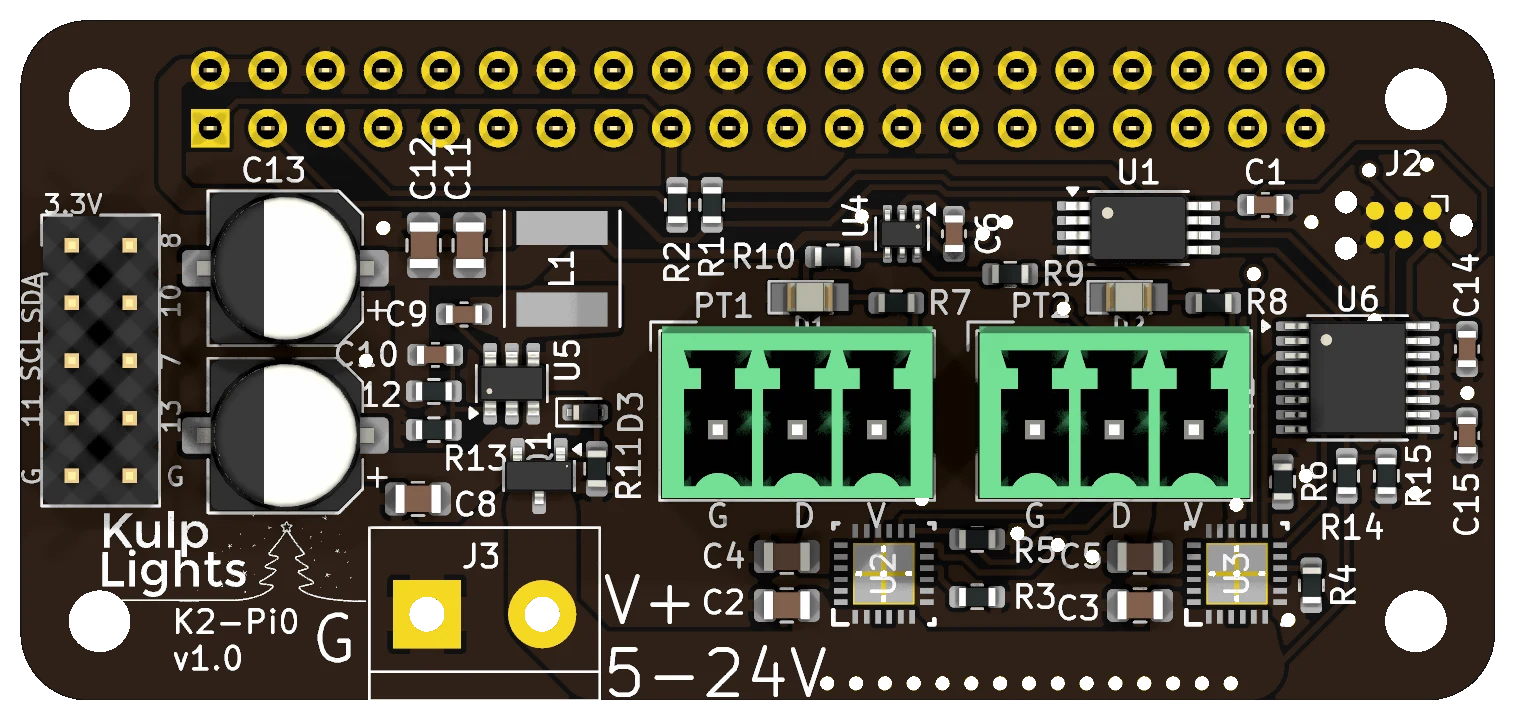
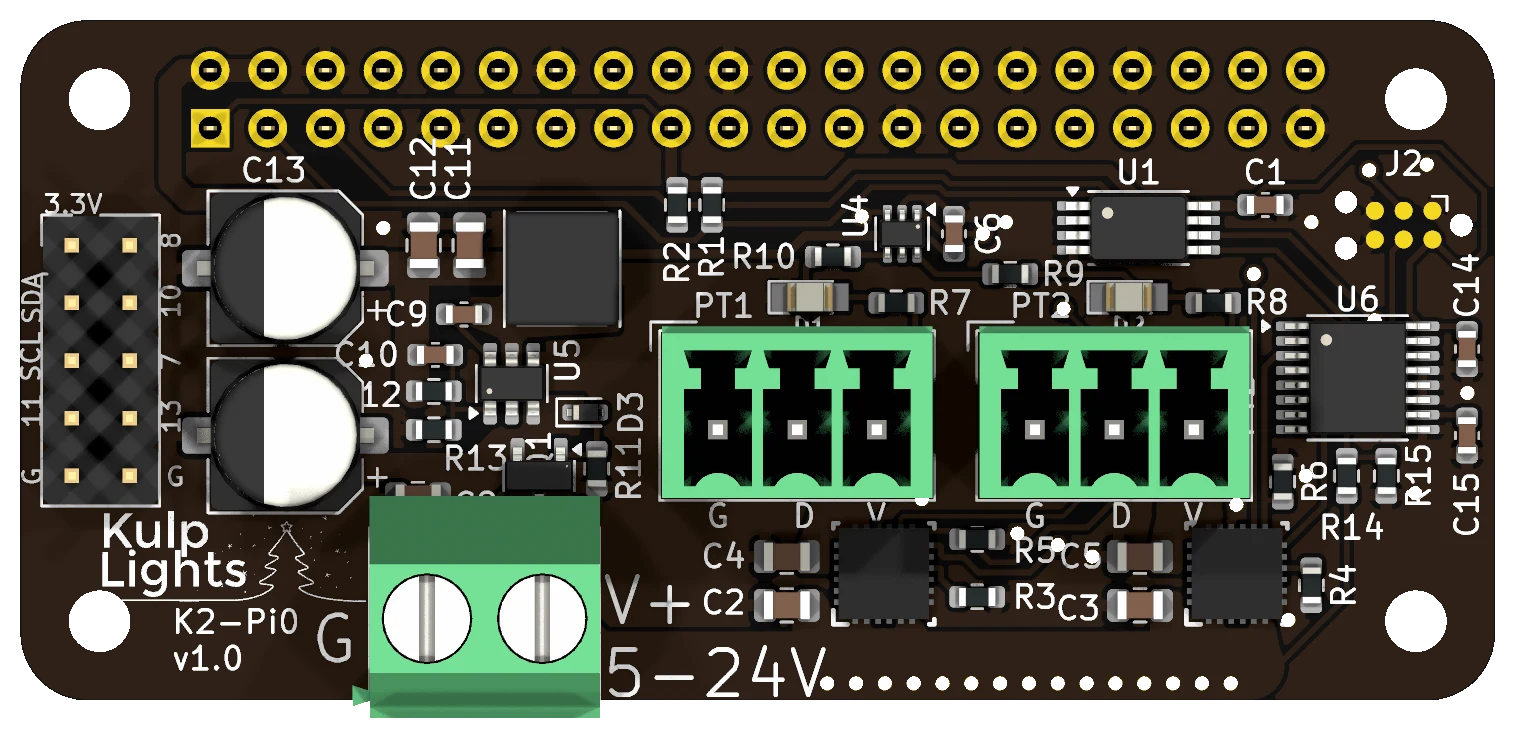
Re-render the board maps with the missing 3D models
The KiCad renders were missing push buttons, USB ports, the audio jack,
eFuses, the buck regulator and inductor, the MSPM0 and more, because their
3D model paths no longer resolved. With the models fixed in the board
files, re-render every board: the OLED module and audio jack now show in
black as fitted, and the PocketBeagle ghost is trimmed on all boards.

render_boards.sh now renders, renames and trims straight into
docs/assets/boards/ and can render a subset by name.

diff --git a/tools/trim_renders.py b/tools/trim_renders.py
@@ -1,10 +1,16 @@
+"""Crop a transparent KiCad render to the board and save it as WebP.
+usage: trim_renders.py [--ghost] in.png out.webp
+--ghost drops pixels with alpha < 200 first (the semi-transparent ghost a BeagleBone or
+PocketBeagle model leaves in the render)."""
 import sys
 from PIL import Image
-for f in sys.argv[1:]:
-    im = Image.open(f)
-    bb = im.getchannel('A').point(lambda a: 255 if a > 8 else 0).getbbox()
-    im = im.crop((max(bb[0]-20,0), max(bb[1]-20,0), min(bb[2]+20,im.width), min(bb[3]+20,im.height)))
-    im.thumbnail((1800,1800))
-    out = f.replace('.png','.webp')
-    im.save(out, 'WEBP', quality=88)
-    print(out, im.size)
+
+src, out = [a for a in sys.argv[1:] if a != '--ghost']
+im = Image.open(src).convert('RGBA')
+if '--ghost' in sys.argv:
+    im.putalpha(im.getchannel('A').point(lambda v: 255 if v >= 200 else 0))
+bb = im.getchannel('A').point(lambda a: 255 if a > 8 else 0).getbbox()
+im = im.crop((max(bb[0]-20, 0), max(bb[1]-20, 0), min(bb[2]+20, im.width), min(bb[3]+20, im.height)))
+im.thumbnail((1800, 1800))
+im.save(out, 'WEBP', quality=88)
+print(out, im.size)
